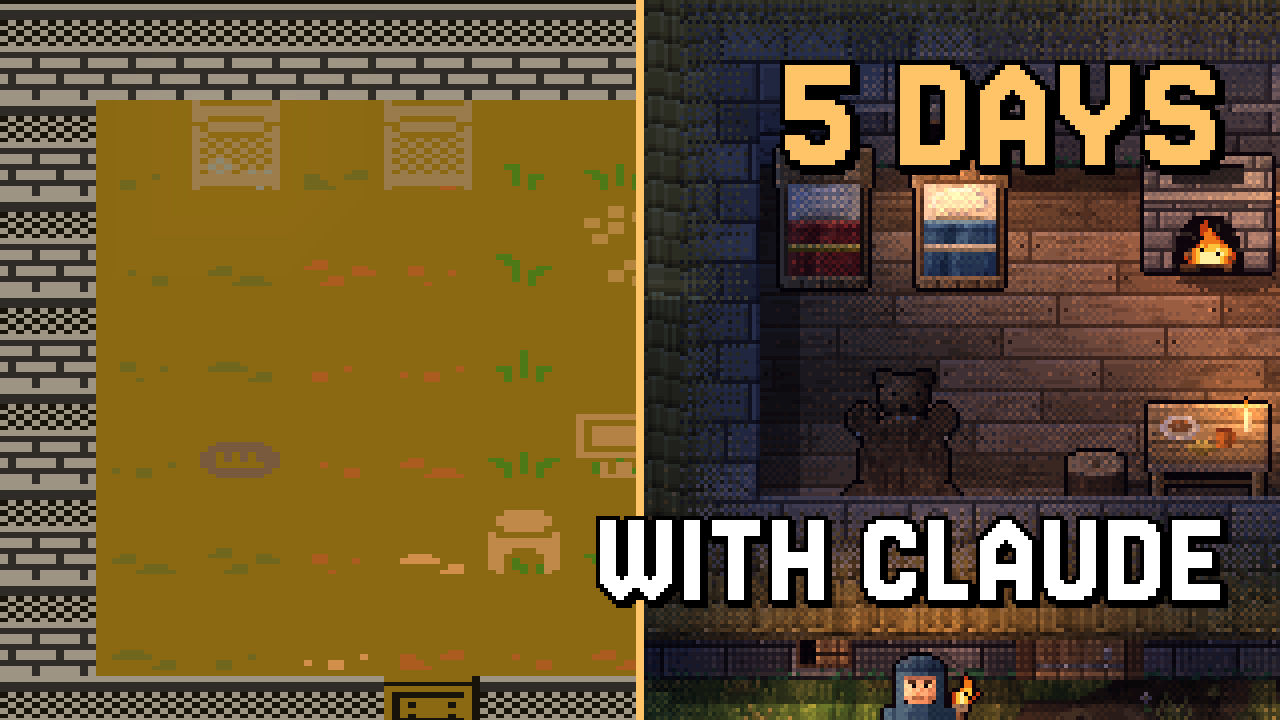
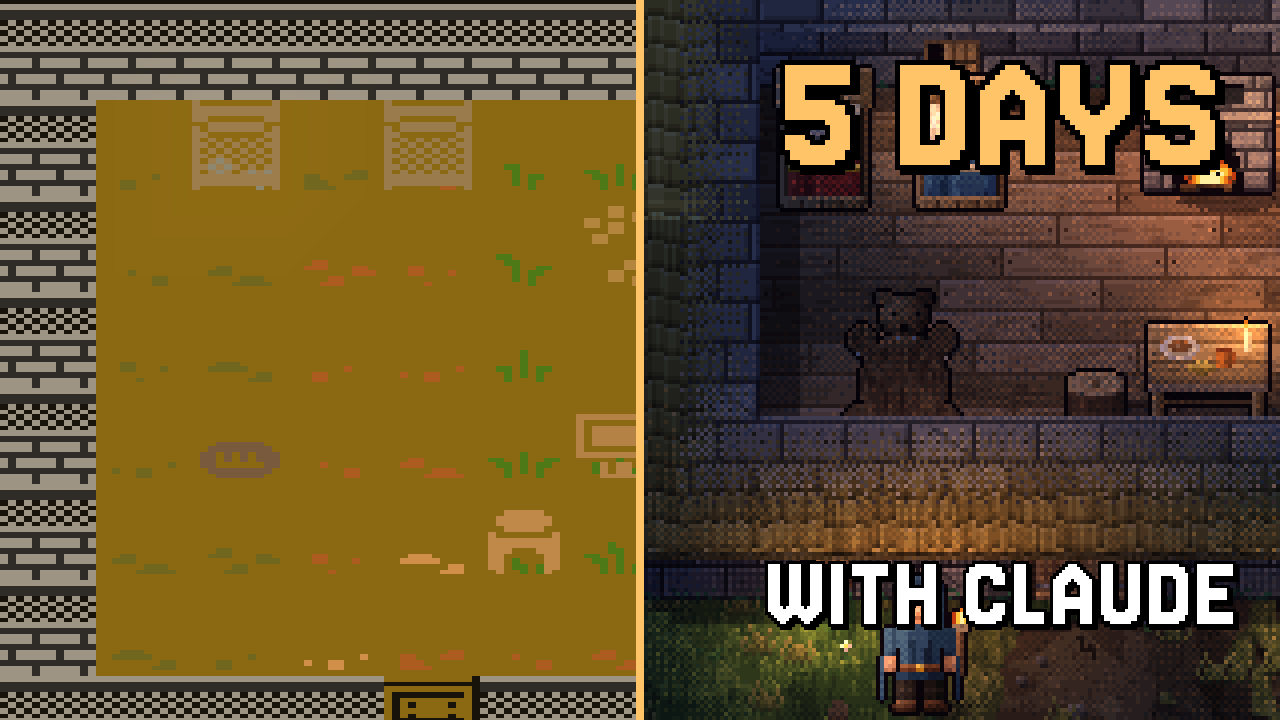
fix(mockups): devlog thumbnails after review
- Set WITH CLAUDE at ×3 in the after half so it clears the seam and the emberwood trunk.
- Taper the block and pixel arrow shafts toward the tail.
- Lower the house crop so the torch-bearer shows whole.
- Drop the forest variant and its tree-ground capture: green texture at 168 px.
- Remove the unused pixel-arc and stepped-clip code from thumb.html.
- Describe the emberwood with Claude card and correct the font note in index.html.

Claude-Session: e3adbc62-6f8a-48c6-baf0-a7ec3f62647e
T3-Thread: thread:delegated-task:command%3Amcp%3A45a1e713-3091-4454-8223-0b6498362647%3Adelegate-task%3A20e8abff-7765-4762-bae2-9c00683f3ca6

diff --git a/mockups/devlog-render/thumb.html b/mockups/devlog-render/thumb.html
@@ -18,34 +18,34 @@ html, body { margin: 0; background: #000; }
 <body>
 <section class="th" id="night">
   <div class="clip" style="left:0px;width:640px"><img class="art" src="src/old-glyph.png" style="left:-672px;top:-432px;width:2560px;height:2176px" alt=""></div>
-  <div class="clip" style="left:640px;width:640px"><img class="art" src="src/new-night.png" style="left:-2440px;top:-1240px;width:7680px;height:4352px" alt=""></div>
+  <div class="clip" style="left:640px;width:640px"><img class="art" src="src/new-night.png" style="left:-2440px;top:-1320px;width:7680px;height:4352px" alt=""></div>
   <div class="seam"></div>
   <canvas class="ov txt" data-font="Jersey20" data-size="34" data-k="5" data-right="40" data-bottom="32" data-lines='[[["5 DAYS","#ffc468"]]]'></canvas>
 </section>
 <section class="th" id="night-ai">
   <div class="clip" style="left:0px;width:640px"><img class="art" src="src/old-glyph.png" style="left:-672px;top:-432px;width:2560px;height:2176px" alt=""></div>
-  <div class="clip" style="left:640px;width:640px"><img class="art" src="src/new-night.png" style="left:-2440px;top:-1240px;width:7680px;height:4352px" alt=""></div>
+  <div class="clip" style="left:640px;width:640px"><img class="art" src="src/new-night.png" style="left:-2440px;top:-1320px;width:7680px;height:4352px" alt=""></div>
   <div class="seam"></div>
   <canvas class="ov txt" data-font="Jersey20" data-size="34" data-k="5" data-right="40" data-y="24" data-lines='[[["5 DAYS","#ffc468"]]]'></canvas>
-  <canvas class="ov txt" data-font="Jersey20" data-size="34" data-k="4" data-right="40" data-bottom="24" data-lines='[[["WITH CLAUDE","#ffffff"]]]'></canvas>
+  <canvas class="ov txt" data-font="Jersey20" data-size="34" data-k="3" data-right="32" data-bottom="24" data-lines='[[["WITH CLAUDE","#ffffff"]]]'></canvas>
 </section>
 <section class="th" id="night-brush">
   <div class="clip" style="left:0px;width:640px"><img class="art" src="src/old-glyph.png" style="left:-672px;top:-432px;width:2560px;height:2176px" alt=""></div>
-  <div class="clip" style="left:640px;width:640px"><img class="art" src="src/new-night.png" style="left:-2440px;top:-1240px;width:7680px;height:4352px" alt=""></div>
+  <div class="clip" style="left:640px;width:640px"><img class="art" src="src/new-night.png" style="left:-2440px;top:-1320px;width:7680px;height:4352px" alt=""></div>
   <div class="seam"></div>
   <canvas class="ov txt" data-font="Jersey20" data-size="34" data-k="5" data-right="40" data-bottom="24" data-lines='[[["5 DAYS","#ffc468"]]]'></canvas>
   <svg class="arrow" data-kind="brush" data-from="400,560" data-via="620,330" data-to="960,330"></svg>
 </section>
 <section class="th" id="night-block">
   <div class="clip" style="left:0px;width:640px"><img class="art" src="src/old-glyph.png" style="left:-672px;top:-432px;width:2560px;height:2176px" alt=""></div>
-  <div class="clip" style="left:640px;width:640px"><img class="art" src="src/new-night.png" style="left:-2440px;top:-1240px;width:7680px;height:4352px" alt=""></div>
+  <div class="clip" style="left:640px;width:640px"><img class="art" src="src/new-night.png" style="left:-2440px;top:-1320px;width:7680px;height:4352px" alt=""></div>
   <div class="seam"></div>
   <canvas class="ov txt" data-font="Jersey20" data-size="34" data-k="5" data-right="40" data-bottom="24" data-lines='[[["5 DAYS","#ffc468"]]]'></canvas>
   <svg class="arrow" data-kind="block" data-from="420,590" data-to="950,340"></svg>
 </section>
 <section class="th" id="night-pixel">
   <div class="clip" style="left:0px;width:640px"><img class="art" src="src/old-glyph.png" style="left:-672px;top:-432px;width:2560px;height:2176px" alt=""></div>
-  <div class="clip" style="left:640px;width:640px"><img class="art" src="src/new-night.png" style="left:-2440px;top:-1240px;width:7680px;height:4352px" alt=""></div>
+  <div class="clip" style="left:640px;width:640px"><img class="art" src="src/new-night.png" style="left:-2440px;top:-1320px;width:7680px;height:4352px" alt=""></div>
   <div class="seam"></div>
   <canvas class="ov txt" data-font="Jersey20" data-size="34" data-k="5" data-right="40" data-bottom="24" data-lines='[[["5 DAYS","#ffc468"]]]'></canvas>
   <canvas class="ov parrow" data-k="8" data-from="52,74" data-to="118,42"></canvas>
@@ -61,17 +61,11 @@ html, body { margin: 0; background: #000; }
   <div class="clip" style="left:640px;width:640px"><img class="art" src="src/magic-night.png" style="left:-1351px;top:-1230px;width:4764px;height:2964px" alt=""></div>
   <div class="seam"></div>
   <canvas class="ov txt" data-font="Jersey20" data-size="34" data-k="5" data-right="40" data-y="24" data-lines='[[["5 DAYS","#ffc468"]]]'></canvas>
-  <canvas class="ov txt" data-font="Jersey20" data-size="34" data-k="4" data-right="40" data-bottom="24" data-lines='[[["WITH CLAUDE","#ffffff"]]]'></canvas>
-</section>
-<section class="th" id="forest">
-  <div class="clip" style="left:0px;width:640px"><img class="art" src="src/old-glyph.png" style="left:-1920px;top:-80px;width:2560px;height:2176px" alt=""></div>
-  <div class="clip" style="left:640px;width:640px"><img class="art" src="src/forest-ground.png" style="left:-80px;top:-220px;width:792px;height:988px" alt=""></div>
-  <div class="seam"></div>
-  <canvas class="ov txt" data-font="Jersey20" data-size="34" data-k="5" data-right="40" data-bottom="32" data-lines='[[["5 DAYS","#ffc468"]]]'></canvas>
+  <canvas class="ov txt" data-font="Jersey20" data-size="34" data-k="3" data-right="32" data-bottom="24" data-lines='[[["WITH CLAUDE","#ffffff"]]]'></canvas>
 </section>
 <section class="th" id="day">
   <div class="clip" style="left:0px;width:640px"><img class="art" src="src/old-glyph.png" style="left:-672px;top:-432px;width:2560px;height:2176px" alt=""></div>
-  <div class="clip" style="left:640px;width:640px"><img class="art" src="src/new-day.png" style="left:-2440px;top:-1240px;width:7680px;height:4352px" alt=""></div>
+  <div class="clip" style="left:640px;width:640px"><img class="art" src="src/new-day.png" style="left:-2440px;top:-1320px;width:7680px;height:4352px" alt=""></div>
   <div class="seam"></div>
   <canvas class="ov txt" data-font="Jersey20" data-size="34" data-k="5" data-right="40" data-bottom="32" data-lines='[[["5 DAYS","#ffc468"]]]'></canvas>
 </section>
@@ -89,19 +83,12 @@ html, body { margin: 0; background: #000; }
 <script>
 const id = new URLSearchParams(location.search).get('t') || 'night';
 document.getElementById(id).classList.add('on');
-for (const c of document.querySelectorAll('.th.on .clip[data-steps]')) {
-  const [x0, y0, x1, y1, st] = c.dataset.steps.split(',').map(Number), pts = [[0, 0]], n = Math.round((y1 - y0) / st);
-  for (let i = 0; i < n; i++) { const x = Math.round((x0 + (x1 - x0) * i / n) / 8) * 8, xn = Math.round((x0 + (x1 - x0) * (i + 1) / n) / 8) * 8; pts.push([x, y0 + i * st], [xn, y0 + i * st]); }
-  pts.splice(1, 0); pts.push([pts.at(-1)[0], y1], [0, y1]);
-  c.dataset.poly = JSON.stringify(pts);
-  c.style.clipPath = `polygon(${pts.map(([x, y]) => `${x}px ${y}px`).join(',')})`;
-}
 const NS = 'http://www.w3.org/2000/svg';
 const P = s => s.split(',').map(Number);
 function arrowShape(kind, a, b, via) {
   if (kind === 'block') {
     const dx = b[0] - a[0], dy = b[1] - a[1], L = Math.hypot(dx, dy), ux = dx / L, uy = dy / L, nx = -uy, ny = ux, hl = 110, sw = 24, hw = 70, bx = b[0] - ux * hl, by = b[1] - uy * hl;
-    return [[a[0] + nx * sw * .7, a[1] + ny * sw * .7], [bx + nx * sw, by + ny * sw], [bx + nx * hw, by + ny * hw], b, [bx - nx * hw, by - ny * hw], [bx - nx * sw, by - ny * sw], [a[0] - nx * sw * .7, a[1] - ny * sw * .7]];
+    return [[a[0] + nx * sw * .3, a[1] + ny * sw * .3], [bx + nx * sw, by + ny * sw], [bx + nx * hw, by + ny * hw], b, [bx - nx * hw, by - ny * hw], [bx - nx * sw, by - ny * sw], [a[0] - nx * sw * .3, a[1] - ny * sw * .3]];
   }
   const q = t => [(1 - t) ** 2 * a[0] + 2 * (1 - t) * t * via[0] + t * t * b[0], (1 - t) ** 2 * a[1] + 2 * (1 - t) * t * via[1] + t * t * b[1]];
   const te = .76, N = 40, L = [], R = [];
@@ -122,7 +109,7 @@ for (const s of document.querySelectorAll('.th.on svg.arrow')) {
 for (const c of document.querySelectorAll('.th.on canvas.parrow')) {
   const k = +c.dataset.k, W = 1280 / k, H = 720 / k, a = P(c.dataset.from), b = P(c.dataset.to);
   const dx = b[0] - a[0], dy = b[1] - a[1], L = Math.hypot(dx, dy), ux = dx / L, uy = dy / L, nx = -uy, ny = ux, hl = 12, sw = 2.6, hw = 8, bx = b[0] - ux * hl, by = b[1] - uy * hl;
-  const poly = [[a[0] + nx * sw, a[1] + ny * sw], [bx + nx * sw, by + ny * sw], [bx + nx * hw, by + ny * hw], b, [bx - nx * hw, by - ny * hw], [bx - nx * sw, by - ny * sw], [a[0] - nx * sw, a[1] - ny * sw]];
+  const poly = [[a[0] + nx * .6, a[1] + ny * .6], [bx + nx * sw, by + ny * sw], [bx + nx * hw, by + ny * hw], b, [bx - nx * hw, by - ny * hw], [bx - nx * sw, by - ny * sw], [a[0] - nx * .6, a[1] - ny * .6]];
   const inside = (x, y) => { let r = false; for (let i = 0, j = poly.length - 1; i < poly.length; j = i++) { const [xi, yi] = poly[i], [xj, yj] = poly[j]; if ((yi > y) !== (yj > y) && x < (xj - xi) * (y - yi) / (yj - yi) + xi) r = !r; } return r; };
   const ink = new Uint8Array(W * H);
   for (let y = 0; y < H; y++) for (let x = 0; x < W; x++) if (inside(x + .5, y + .5)) ink[y * W + x] = 1;
@@ -140,15 +127,6 @@ for (const c of document.querySelectorAll('.th.on canvas.parrow')) {
   Object.assign(c.style, { left: 0, top: 0, width: '1280px', height: '720px' });
 }
 
-for (const c of document.querySelectorAll('canvas.arrow')) {
-  const g = c.getContext('2d'), dot = (x, y, col) => { g.fillStyle = col; g.fillRect(x, y, 1, 1); };
-  const pts = [];
-  for (let s = 0; s <= 400; s++) { const u = s / 400, x = 4 + u * 44, y = 20 - Math.sin(u * Math.PI) * 15; pts.push([Math.round(x), Math.round(y)]); }
-  const head = [[49, 15], [50, 16], [51, 17], [52, 18], [53, 19], [52, 20], [51, 21], [50, 22], [49, 23], [48, 18], [48, 19], [48, 20], [48, 21], [48, 22], [49, 17], [49, 18], [49, 19], [49, 20], [49, 21], [49, 22], [50, 17], [50, 18], [50, 19], [50, 20], [50, 21], [51, 18], [51, 19], [51, 20], [52, 19]];
-  const body = [...pts, ...head];
-  for (const [x, y] of body) for (const [dx, dy] of [[-1, 0], [1, 0], [0, -1], [0, 1], [-1, -1], [1, 1], [1, -1], [-1, 1], [0, 2], [1, 2], [-1, 2]]) dot(x + dx, y + dy, '#000');
-  for (const [x, y] of body) { dot(x, y, '#ffc468'); dot(x, y + 1, '#ffc468'); }
-}
 const hex = h => [1, 3, 5].map(i => parseInt(h.slice(i, i + 2), 16));
 async function text(c) {
   const d = c.dataset, size = +d.size, k = +d.k, lh = +(d.lh || size), lines = JSON.parse(d.lines);

diff --git a/mockups/devlog-render/index.html b/mockups/devlog-render/index.html
@@ -115,7 +115,7 @@ a { color: var(--cool); }
   </ul>
 </div>
 
-<p class="lead" style="margin-top:16px">Every frame pairs the video’s hook: a close-up of the glyph look <code>dev</code> draws, then the same subject at the new look’s best scene. “Before” is only the dev glyph capture; “after” is only mockup scenes (HUD at night and noon, big-trees emberwood, tree-ground). Text is Jersey20 and Jacquard24 at their one-pixel sizes; all pass <code>check-pixels.mjs</code>.</p>
+<p class="lead" style="margin-top:16px">Every frame pairs the video’s hook: a close-up of the glyph look <code>dev</code> draws, then the same subject at the new look’s best scene. “Before” is only the dev glyph capture; “after” is only mockup scenes (HUD at night and noon, big-trees emberwood at night). Text is Jersey20 at its one-pixel size; the tree-ground forest was dropped because it turns to green texture at 168 px; all pass <code>check-pixels.mjs</code>.</p>
 <div class="grid3" style="margin-top:16px">
   <div class="card">
     <a href="thumb.html?t=night"><img class="tn" src="img/thumb-night.png" alt="Hook pair, night thumbnail"></a>
@@ -135,12 +135,7 @@ a { color: var(--cool); }
   <div class="card">
     <a href="thumb.html?t=ember-ai"><img class="tn" src="img/thumb-ember-ai.png" alt="Emberwood, with Claude thumbnail"></a>
     <h3 style="margin-top:10px">Emberwood, with Claude</h3>
-    
-  </div>
-  <div class="card">
-    <a href="thumb.html?t=forest"><img class="tn" src="img/thumb-forest.png" alt="Hook pair, forest thumbnail"></a>
-    <h3 style="margin-top:10px">Hook pair, forest</h3>
-    <p class="lead">Glyph trees against the tree-ground scene, ×2. Richest detail, but at feed size it turns to green texture.</p>
+    <p class="lead">The emberwood pair with the disclosure tucked into the after half’s bottom corner, clear of the trunk and the seam.</p>
   </div>
   <div class="card">
     <a href="thumb.html?t=day"><img class="tn" src="img/thumb-day.png" alt="Hook pair, day thumbnail"></a>
@@ -176,7 +171,7 @@ a { color: var(--cool); }
 
 <div class="card" style="margin-top:16px">
   <h3>At feed size (168 px)</h3>
-  <div style="display:flex;flex-wrap:wrap;gap:12px;margin-top:8px"><img src="img/thumb-night.png" alt="Hook pair, night at feed size" style="width:168px;aspect-ratio:16/9;border-radius:6px"><img src="img/thumb-night-ai.png" alt="Hook pair, night, with Claude at feed size" style="width:168px;aspect-ratio:16/9;border-radius:6px"><img src="img/thumb-ember.png" alt="Hook pair, emberwood at feed size" style="width:168px;aspect-ratio:16/9;border-radius:6px"><img src="img/thumb-ember-ai.png" alt="Emberwood, with Claude at feed size" style="width:168px;aspect-ratio:16/9;border-radius:6px"><img src="img/thumb-forest.png" alt="Hook pair, forest at feed size" style="width:168px;aspect-ratio:16/9;border-radius:6px"><img src="img/thumb-day.png" alt="Hook pair, day at feed size" style="width:168px;aspect-ratio:16/9;border-radius:6px"><img src="img/thumb-night-brush.png" alt="Arrow A · brush at feed size" style="width:168px;aspect-ratio:16/9;border-radius:6px"><img src="img/thumb-night-block.png" alt="Arrow B · block at feed size" style="width:168px;aspect-ratio:16/9;border-radius:6px"><img src="img/thumb-night-pixel.png" alt="Arrow C · pixel at feed size" style="width:168px;aspect-ratio:16/9;border-radius:6px"><img src="img/thumb-night-inset.png" alt="After full-bleed, before inset at feed size" style="width:168px;aspect-ratio:16/9;border-radius:6px"><img src="img/thumb-number.png" alt="Big number at feed size" style="width:168px;aspect-ratio:16/9;border-radius:6px"></div>
+  <div style="display:flex;flex-wrap:wrap;gap:12px;margin-top:8px"><img src="img/thumb-night.png" alt="Hook pair, night at feed size" style="width:168px;aspect-ratio:16/9;border-radius:6px"><img src="img/thumb-night-ai.png" alt="Hook pair, night, with Claude at feed size" style="width:168px;aspect-ratio:16/9;border-radius:6px"><img src="img/thumb-ember.png" alt="Hook pair, emberwood at feed size" style="width:168px;aspect-ratio:16/9;border-radius:6px"><img src="img/thumb-ember-ai.png" alt="Emberwood, with Claude at feed size" style="width:168px;aspect-ratio:16/9;border-radius:6px"><img src="img/thumb-day.png" alt="Hook pair, day at feed size" style="width:168px;aspect-ratio:16/9;border-radius:6px"><img src="img/thumb-night-brush.png" alt="Arrow A · brush at feed size" style="width:168px;aspect-ratio:16/9;border-radius:6px"><img src="img/thumb-night-block.png" alt="Arrow B · block at feed size" style="width:168px;aspect-ratio:16/9;border-radius:6px"><img src="img/thumb-night-pixel.png" alt="Arrow C · pixel at feed size" style="width:168px;aspect-ratio:16/9;border-radius:6px"><img src="img/thumb-night-inset.png" alt="After full-bleed, before inset at feed size" style="width:168px;aspect-ratio:16/9;border-radius:6px"><img src="img/thumb-number.png" alt="Big number at feed size" style="width:168px;aspect-ratio:16/9;border-radius:6px"></div>
 </div>
 
 <div class="card" style="margin-top:16px">
